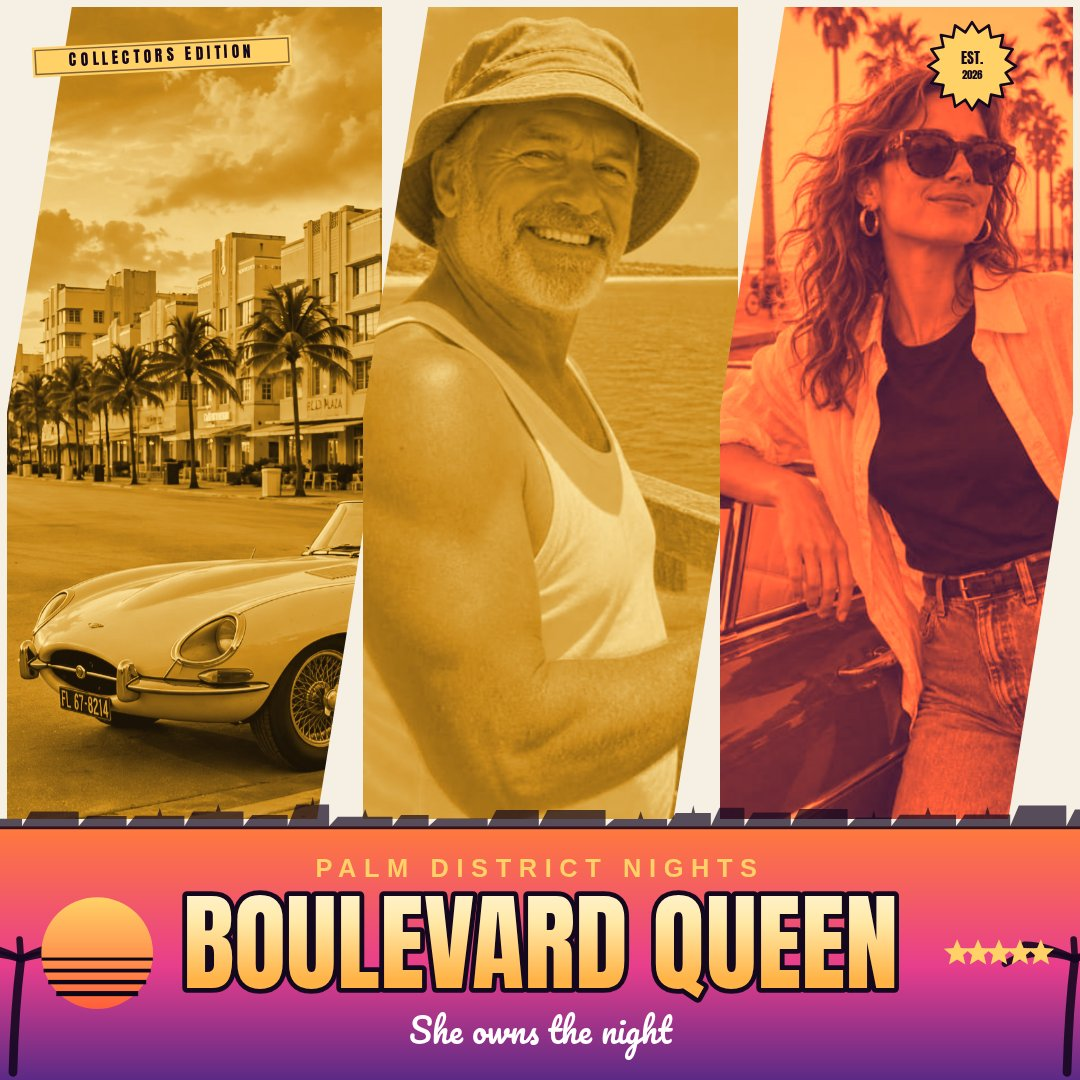
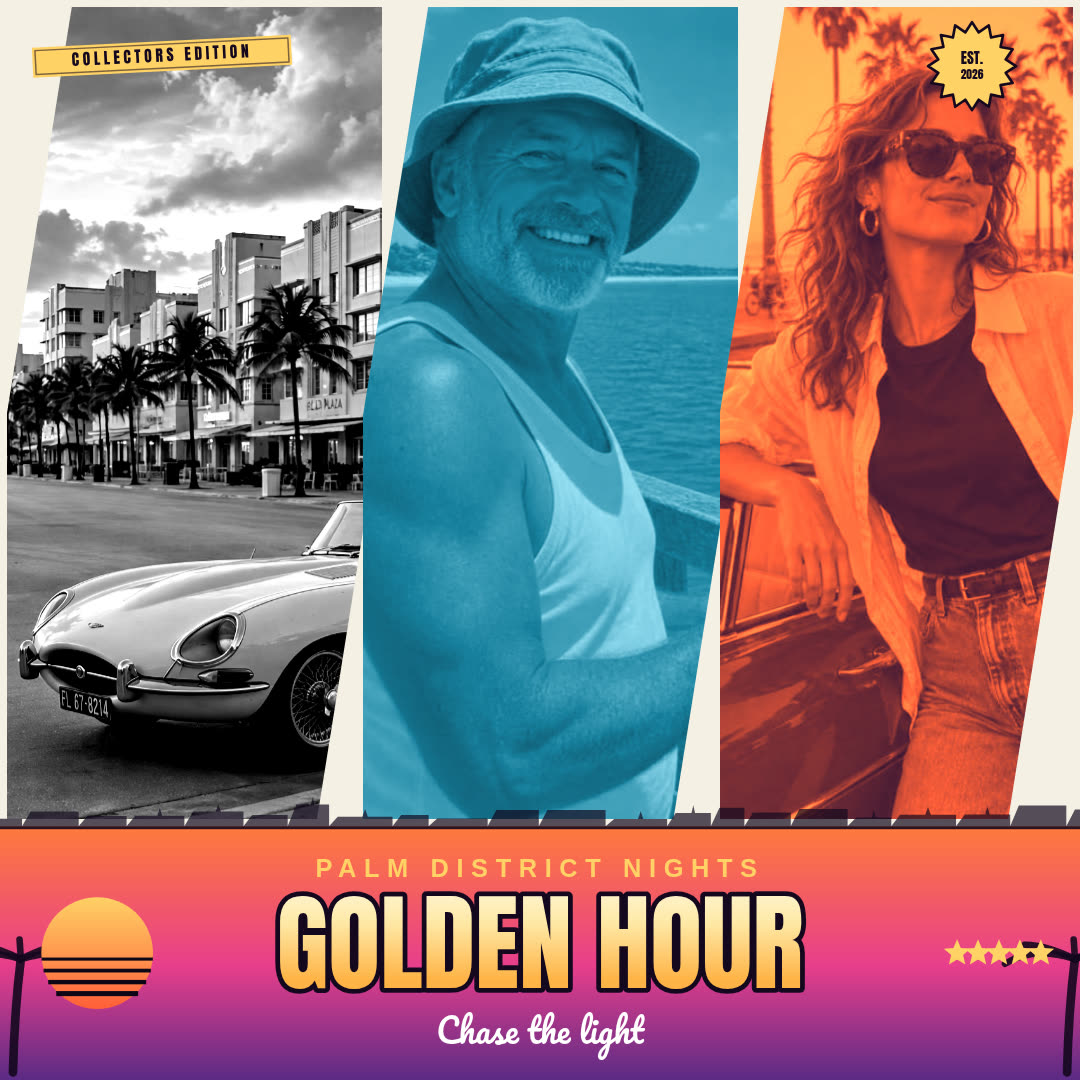
Fix same-colour covers: per-panel colour separation + distinct titles
- New Ocean grade (cold teal-blue); Neon Night reworked to cold
  indigo/cyan (was warm magenta, near-identical to Sunset); Halftone
  gets its own crimson ramp (was byte-identical to Sunset) and dots
  now use the grade shadow colour
- Cover 1 panels now: Sunset hero, Ocean fisherman, Mono Noir
  convertible, Neon motel, Halftone helicopter — 5 distinct colours
- 3x3 and diagonal covers re-graded for the same separation
- Titles made distinct from the current top 10 (cover 1 was
  identical to #1's): PALM ROYALE / NEON TIDES / GOLDEN HOUR
- 7 grades in UI + README; data: favicon kills the 404

diff --git a/app/src/shots.js b/app/src/shots.js
@@ -8,13 +8,13 @@ const SHOTS = {
   cover1: {
     aspect: 'wide', w: 1920, h: 1080, hideEditor: true,
     state: {
-      layout: 'hero4', title: 'SUNSET CHASE', tagline: 'Every street is a stage',
+      layout: 'hero4', title: 'PALM ROYALE', tagline: 'Live fast, shine brighter',
       eyebrow: 'EST. 2026  •  LEONIDA', banner: 'sunset',
       panels: [
         { ...defaultPanel(0, 'sunset'), cy: 0.34 },
-        defaultPanel(1, 'neon'),
-        defaultPanel(2, 'gold'),
-        defaultPanel(3, 'sunset'),
+        defaultPanel(1, 'ocean'),
+        defaultPanel(2, 'noir'),
+        defaultPanel(3, 'neon'),
         { ...defaultPanel(4, 'halftone'), cx: 0.68, cy: 0.32 },
       ],
     },
@@ -22,13 +22,13 @@ const SHOTS = {
   editor: {
     aspect: 'wide', w: 1920, h: 1080, hideEditor: false,
     state: {
-      layout: 'hero4', title: 'SUNSET CHASE', tagline: 'Every street is a stage',
+      layout: 'hero4', title: 'PALM ROYALE', tagline: 'Live fast, shine brighter',
       eyebrow: 'EST. 2026  •  LEONIDA', banner: 'sunset',
       panels: [
         { ...defaultPanel(0, 'sunset'), cy: 0.34 },
-        defaultPanel(1, 'neon'),
-        defaultPanel(2, 'gold'),
-        defaultPanel(3, 'sunset'),
+        defaultPanel(1, 'ocean'),
+        defaultPanel(2, 'noir'),
+        defaultPanel(3, 'neon'),
         { ...defaultPanel(4, 'halftone'), cx: 0.68, cy: 0.32 },
       ],
     },
@@ -36,23 +36,23 @@ const SHOTS = {
   cover2: {
     aspect: 'portrait', w: 1080, h: 1350, hideEditor: true,
     state: {
-      layout: 'grid33', title: 'NEON SHORES', tagline: 'One city. No rules.',
+      layout: 'grid33', title: 'NEON TIDES', tagline: 'After dark, the city glows',
       eyebrow: 'VOL. 06  •  PALM DISTRICT', banner: 'navy',
       panels: [
-        defaultPanel(1, 'neon'), { ...defaultPanel(0, 'neon'), cy: 0.32 }, { ...defaultPanel(4, 'neon'), cx: 0.68, cy: 0.32 },
+        defaultPanel(1, 'ocean'), { ...defaultPanel(0, 'neon'), cy: 0.32 }, { ...defaultPanel(4, 'neon'), cx: 0.68, cy: 0.32 },
         { ...defaultPanel(2, 'gold'), cy: 0.6 }, { ...defaultPanel(5, 'sunset'), cy: 0.58 }, defaultPanel(3, 'neon'),
-        { ...defaultPanel(0, 'gold'), cy: 0.32 }, defaultPanel(1, 'sunset'), { ...defaultPanel(2, 'neon'), cy: 0.6 },
+        { ...defaultPanel(0, 'gold'), cy: 0.32 }, defaultPanel(1, 'sunset'), { ...defaultPanel(2, 'ocean'), cy: 0.6 },
       ],
     },
   },
   cover3: {
     aspect: 'square', w: 1080, h: 1080, hideEditor: true,
     state: {
-      layout: 'diagonal', title: 'BOULEVARD QUEEN', tagline: 'She owns the night',
+      layout: 'diagonal', title: 'GOLDEN HOUR', tagline: 'Chase the light',
       eyebrow: 'PALM DISTRICT NIGHTS', banner: 'sunset',
       panels: [
-        { ...defaultPanel(2, 'gold'), cy: 0.6 },
-        { ...defaultPanel(1, 'gold'), cx: 0.42 },
+        { ...defaultPanel(2, 'noir'), cy: 0.6 },
+        { ...defaultPanel(1, 'ocean'), cx: 0.42 },
         { ...defaultPanel(0, 'sunset'), cy: 0.34 },
       ],
     },

diff --git a/app/src/render.js b/app/src/render.js
@@ -41,12 +41,15 @@ export const LAYOUTS = {
 };
 
 // Grades: duotone ramps [shadow, mid, highlight] + special handling.
+// Each ramp has its own colour identity: warm Sunset/Gold, cold Neon/Ocean,
+// red Halftone, grey Noir — so panels in one cover separate at a glance.
 export const GRADES = {
   none: { label: 'Original', ramp: null },
   sunset: { label: 'Sunset', ramp: ['#1c0b33', '#ff5e3a', '#ffd166'] },
-  neon: { label: 'Neon Night', ramp: ['#0a1030', '#b537f2', '#4de3ff'] },
+  neon: { label: 'Neon Night', ramp: ['#070b28', '#3d4bff', '#4de3ff'] },
+  ocean: { label: 'Ocean', ramp: ['#04141f', '#17809e', '#a8ecff'] },
   gold: { label: 'Vice Gold', ramp: ['#1a1206', '#c98a1b', '#ffe9a8'] },
-  halftone: { label: 'Halftone', ramp: ['#160a24', '#ff5e3a', '#ffd166'], posterize: true },
+  halftone: { label: 'Halftone', ramp: ['#1a0508', '#d21f3c', '#ffb0a0'], posterize: true },
   noir: { label: 'Mono Noir', ramp: null, mono: true },
 };
 
@@ -62,16 +65,16 @@ export function defaultPanel(photo, grade = 'sunset') {
 export function defaultState() {
   return {
     layout: 'hero4',
-    title: 'SUNSET CHASE',
-    tagline: 'Every street is a stage',
+    title: 'PALM ROYALE',
+    tagline: 'Live fast, shine brighter',
     eyebrow: 'EST. 2026  •  LEONIDA',
     banner: 'sunset', // 'sunset' | 'navy'
     deco: { sun: true, palms: true, badge: true, tape: true, stars: true, skyline: true },
     panels: [
       { ...defaultPanel(0, 'sunset'), cy: 0.34 },
-      defaultPanel(1, 'neon'),
-      defaultPanel(2, 'gold'),
-      defaultPanel(3, 'sunset'),
+      defaultPanel(1, 'ocean'),
+      defaultPanel(2, 'noir'),
+      defaultPanel(3, 'neon'),
       { ...defaultPanel(4, 'halftone'), cx: 0.68, cy: 0.32 },
     ],
   };
@@ -145,7 +148,7 @@ function drawPanel(ctx, img, panel, x, y, w, h) {
   if (grade.posterize) {
     // Halftone dot texture: dark dots where the image is dark.
     tctx.globalAlpha = 0.22;
-    tctx.fillStyle = '#160a24';
+    tctx.fillStyle = grade.ramp ? grade.ramp[0] : '#160a24';
     const step = Math.max(5, Math.round(tw / 90));
     for (let yy = 0; yy < th; yy += step) {
       for (let xx = 0; xx < tw; xx += step) {

diff --git a/app/index.html b/app/index.html
@@ -3,6 +3,7 @@
 <head>
 <meta charset="utf-8">
 <meta name="viewport" content="width=device-width, initial-scale=1">
+<link rel="icon" href="data:,">
 <title>Sunset Vice — Cover Studio</title>
 <link rel="stylesheet" href="./style.css">
 </head>
@@ -46,6 +47,7 @@
           <option value="none">Original</option>
           <option value="sunset" selected>Sunset</option>
           <option value="neon">Neon Night</option>
+          <option value="ocean">Ocean</option>
           <option value="gold">Vice Gold</option>
           <option value="halftone">Halftone</option>
           <option value="noir">Mono Noir</option>
@@ -85,6 +87,7 @@
           <option value="none">Original</option>
           <option value="sunset" selected>Sunset</option>
           <option value="neon">Neon Night</option>
+          <option value="ocean">Ocean</option>
           <option value="gold">Vice Gold</option>
           <option value="halftone">Halftone</option>
           <option value="noir">Mono Noir</option>
@@ -95,10 +98,10 @@
     <section class="card">
       <h2>4 · Lettering</h2>
       <label>Title
-        <input id="titleInput" type="text" maxlength="24" value="SUNSET CHASE">
+        <input id="titleInput" type="text" maxlength="24" value="PALM ROYALE">
       </label>
       <label>Tagline
-        <input id="taglineInput" type="text" maxlength="48" value="Every street is a stage">
+        <input id="taglineInput" type="text" maxlength="48" value="Live fast, shine brighter">
       </label>
       <label>Eyebrow
         <input id="eyebrowInput" type="text" maxlength="40" value="EST. 2026  •  LEONIDA">

diff --git a/README.md b/README.md
@@ -8,8 +8,9 @@ caption into multi-panel Vice City sunset cover art, exported as PNG.
 - **One canvas renderer** for the live preview and the exported PNG — what
   you see is what you share.
 - **4 layouts**: 3×3 grid, hero + 2 stacked, 1 big + 4 small, diagonal slashes.
-- **6 grades per panel**: Original, Sunset, Neon Night, Vice Gold, Halftone,
-  Mono Noir (canvas pixel ops: duotone gradient maps, posterize, halftone dots).
+- **7 grades per panel**: Original, Sunset, Neon Night, Ocean, Vice Gold,
+  Halftone, Mono Noir (canvas pixel ops: duotone gradient maps, posterize,
+  halftone dots).
 - **Per-panel photo control**: click a panel to select it, drag to reposition,
   scroll to zoom, flip, assign any loaded photo to any panel, or fill every
   panel with one photo in one click.
